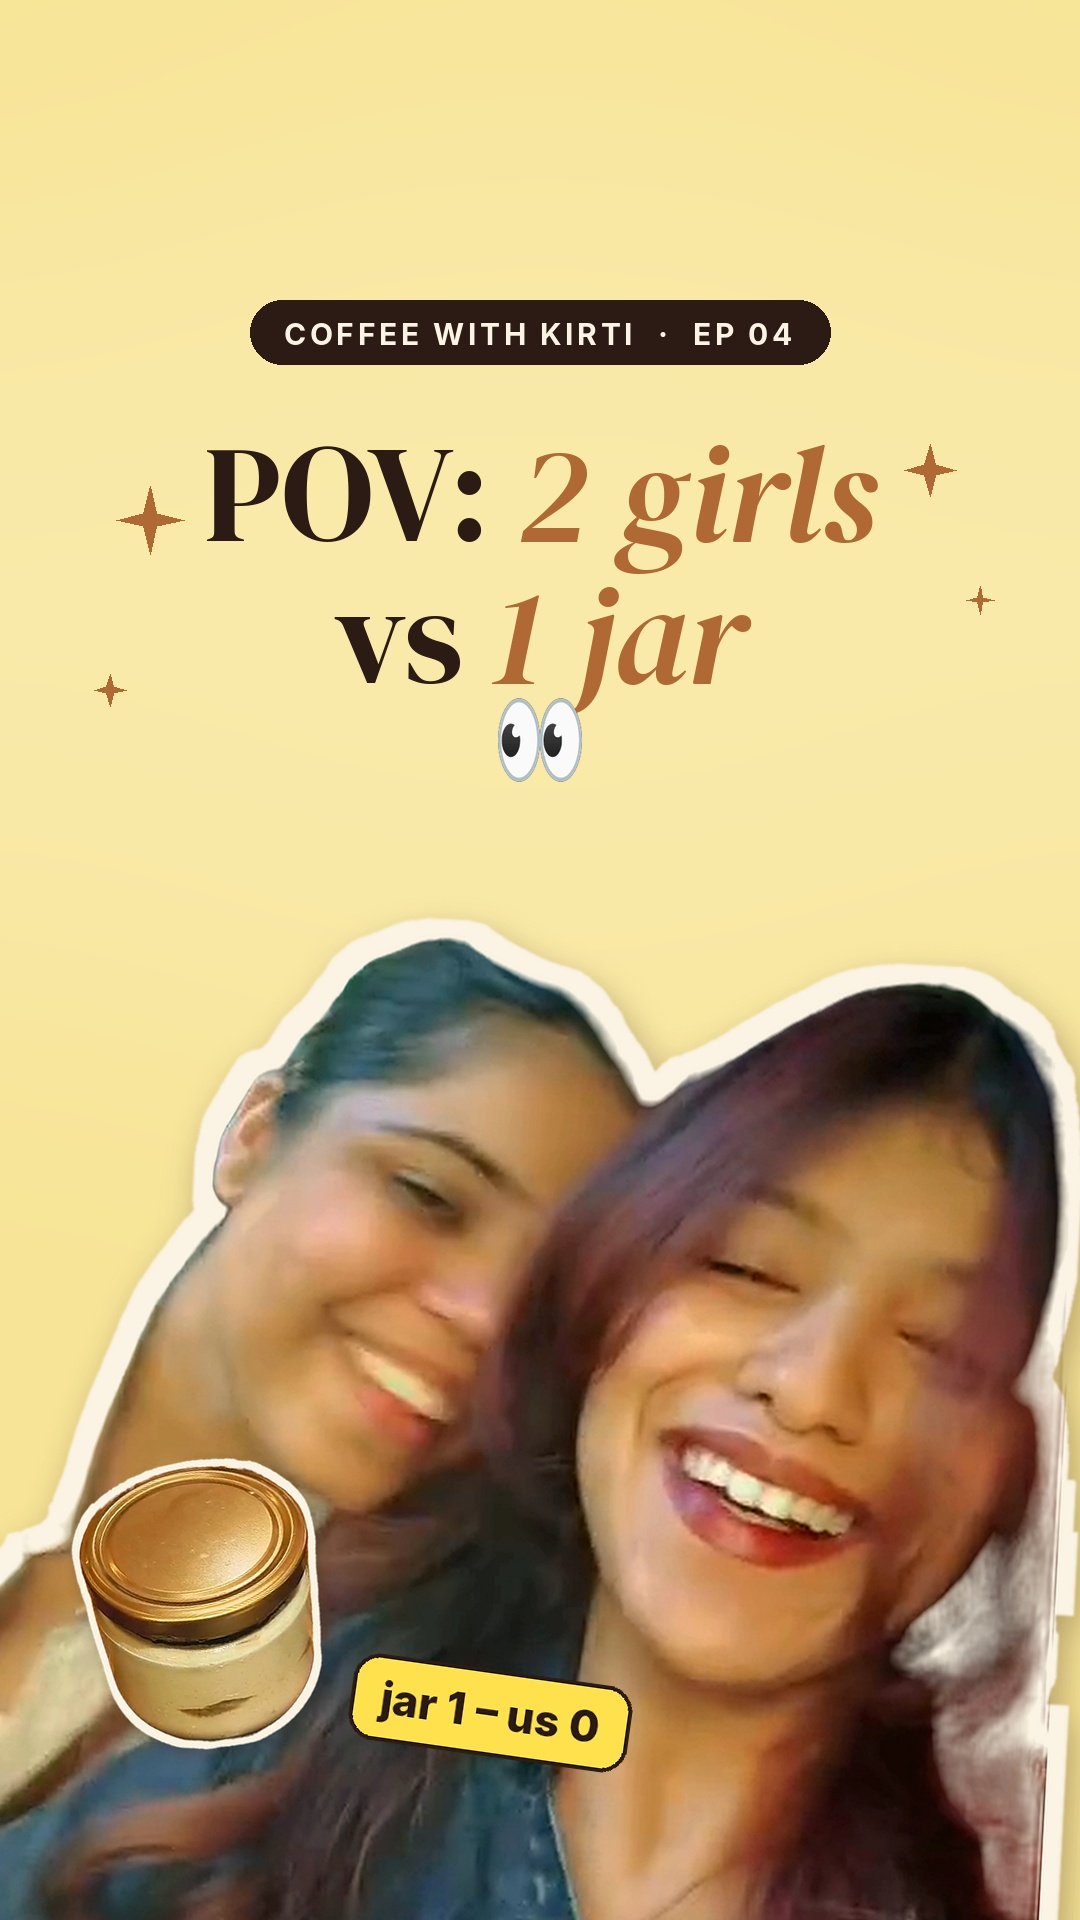
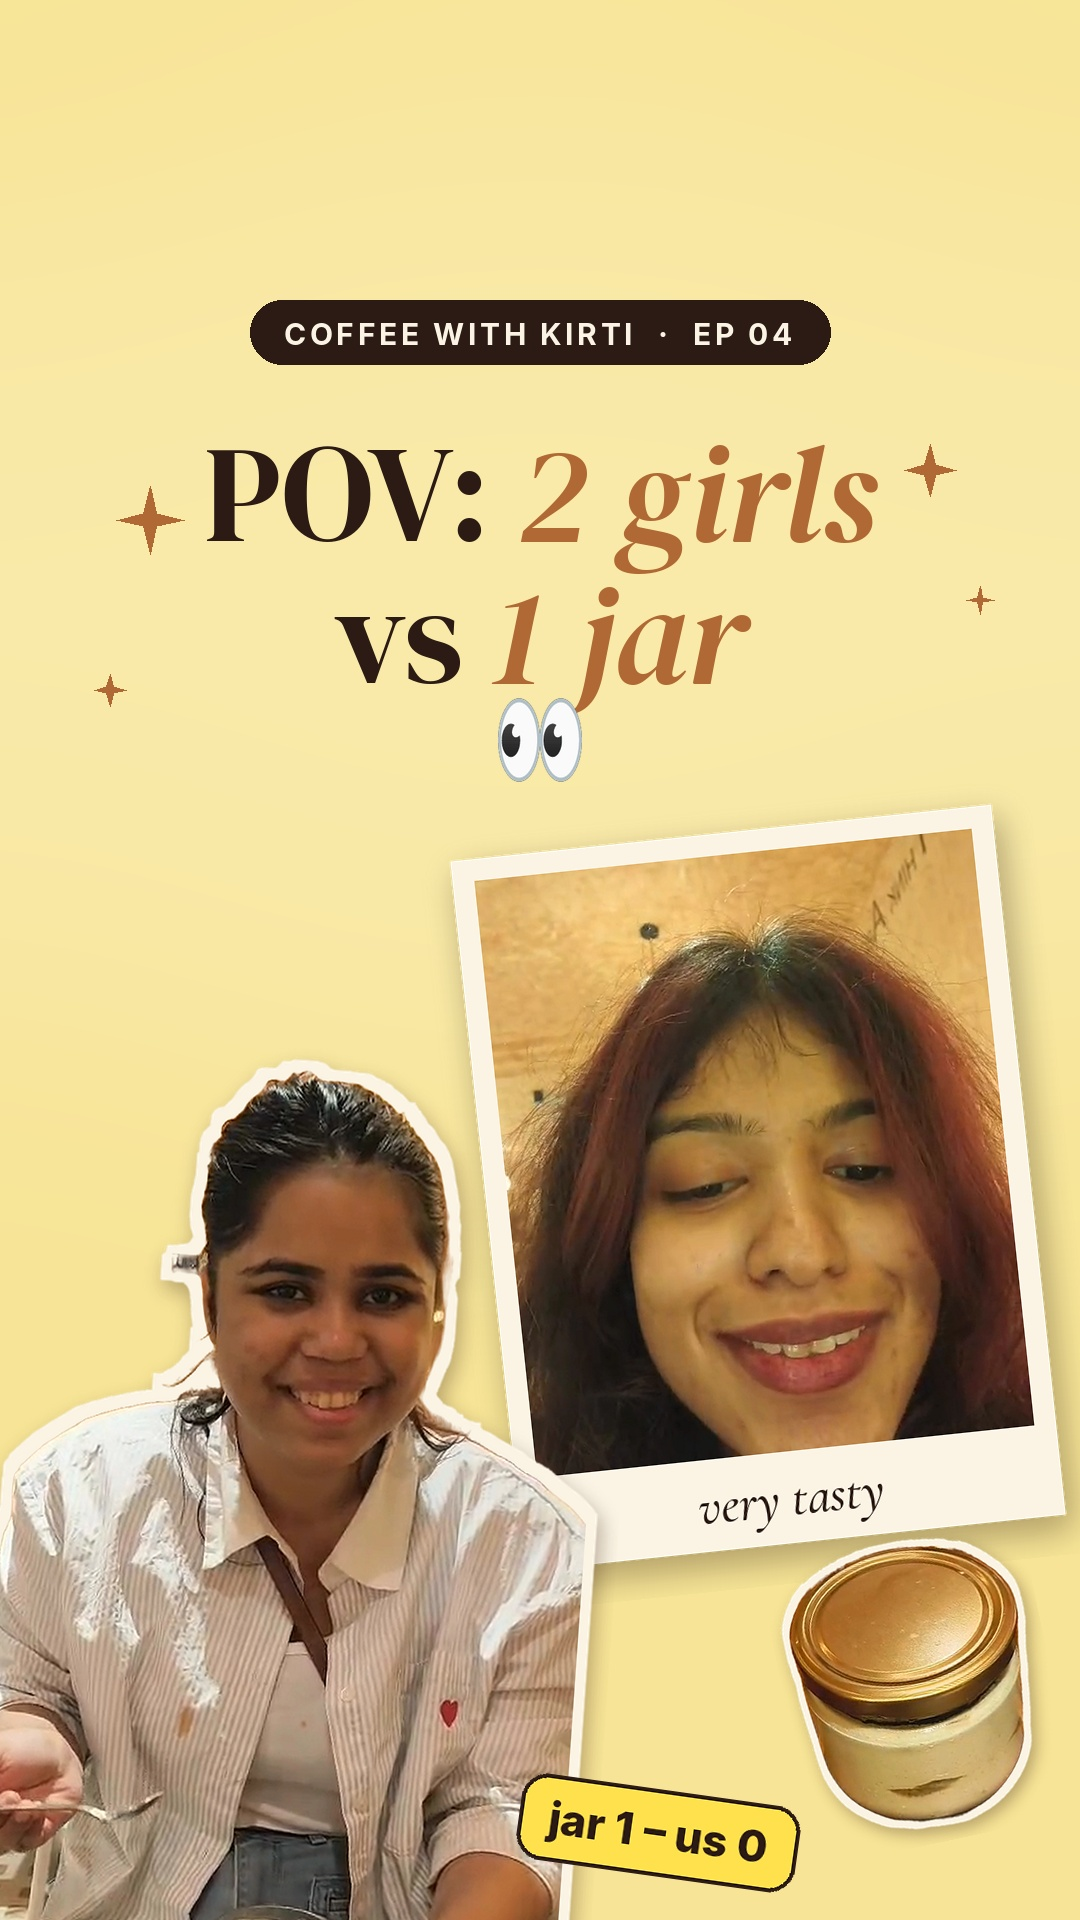
Ep 4 cover: use Tan Coffee shots (friend cut-out + Kirti selfie polaroid)
Claude-Session: https://claude.ai/code/session_01UUkREefm1BsGdJ1cyr32QN

diff --git a/coffee-with-kirti/episode-04/cover.py b/coffee-with-kirti/episode-04/cover.py
@@ -67,6 +67,27 @@ def sticker(rgba, border=18, shadow=True):
     return out
 
 
+def polaroid(im, caption, size=(500, 600), border=22, bottom=92):
+    """Selfie as a little polaroid print with a handwritten-style caption and soft shadow."""
+    w, h = size
+    s = max(w / im.width, h / im.height)
+    ph = im.resize((round(im.width * s), round(im.height * s)), Image.LANCZOS)
+    top = round(ph.height * 0.16)  # bias the crop upward: hair + face
+    ph = ph.crop(((ph.width - w) // 2, top, (ph.width - w) // 2 + w, top + h))
+    card = Image.new("RGBA", (w + 2 * border, h + border + bottom), CREAM + (255,))
+    card.paste(ph, (border, border))
+    font = ImageFont.truetype(os.path.join(FONTS, "CormorantGaramond-MediumItalic.ttf"), 52)
+    ImageDraw.Draw(card).text((card.width / 2, h + border + bottom / 2), caption, font=font, fill=ESPRESSO, anchor="mm")
+    pad = 40
+    out = Image.new("RGBA", (card.width + 2 * pad, card.height + 2 * pad), (0, 0, 0, 0))
+    sh = Image.new("RGBA", card.size, (60, 35, 20, 90)).filter(ImageFilter.GaussianBlur(0))
+    shadow = Image.new("RGBA", out.size, (0, 0, 0, 0))
+    shadow.paste(sh, (pad + 6, pad + 14))
+    out.alpha_composite(shadow.filter(ImageFilter.GaussianBlur(16)))
+    out.alpha_composite(card, (pad, pad))
+    return out
+
+
 def sparkle(d, cx, cy, r, fill):
     pts = []
     for k in range(8):
@@ -80,7 +101,8 @@ def make_cover(path):
     import onnxruntime as ort
     os.makedirs(BUILD, exist_ok=True)
     sess = ort.InferenceSession(MODEL, providers=["CPUExecutionProvider"])
-    people = sticker(cutout(frame("v1", 3.0), sess), border=20)
+    friend = sticker(cutout(frame("v2", 35.2), sess), border=20)   # big smile, drinks + desserts at Tan Coffee
+    kirti = polaroid(frame("v2", 47.3), "very tasty")              # "it's very tasty" selfie
     jar = sticker(cutout(frame("v3", 15.5), sess, keep=(0.0, 0.38, 1.0, 0.9)), border=16)
 
     # background: butter yellow with a soft light pool behind the headline
@@ -128,13 +150,15 @@ def make_cover(path):
     for cx, cy, r in [(150, 520, 34), (930, 470, 26), (980, 600, 14), (110, 690, 16)]:
         sparkle(d, cx, cy, r, CARAMEL)
 
-    # people sticker, bottom; jar sticker tilted on the right
-    pw = 1200  # wider than the canvas so the frame's straight edges fall off-screen
-    p = people.resize((pw, round(people.height * pw / people.width)), Image.LANCZOS).rotate(-3, Image.BICUBIC, expand=True)
-    cv.alpha_composite(p, ((W - p.width) // 2 - 30, 850))
+    # Kirti's selfie tilted on the right, friend + the table in front on the left
+    k = kirti.rotate(6, Image.BICUBIC, expand=True)
+    cv.alpha_composite(k, (W - k.width + 30, 760))
+    fw = 700
+    f = friend.resize((fw, round(friend.height * fw / friend.width)), Image.LANCZOS).rotate(-4, Image.BICUBIC, expand=True)
+    cv.alpha_composite(f, (-130, 1010))
     jw = 270
     j = jar.resize((jw, round(jar.height * jw / jar.width)), Image.LANCZOS).rotate(12, Image.BICUBIC, expand=True)
-    jx, jy = 40, 1420
+    jx, jy = W - 330, 1500
     cv.alpha_composite(j, (jx, jy))
 
     # "jar 1 - us 0" tag
@@ -146,7 +170,7 @@ def make_cover(path):
     td.rounded_rectangle([10, 10, tw + 70, 96], radius=26, fill=YELLOW, outline=ESPRESSO, width=4)
     td.text((40, 26), txt, font=tag_font, fill=ESPRESSO)
     tag = tag.rotate(-8, Image.BICUBIC, expand=True)
-    cv.alpha_composite(tag, (jx + j.width - 40, jy + j.height - 150))
+    cv.alpha_composite(tag, (jx - 250, jy + j.height - 110))
 
     cv.convert("RGB").save(path, quality=95)
 
